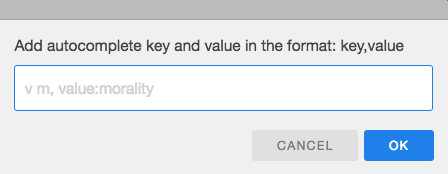
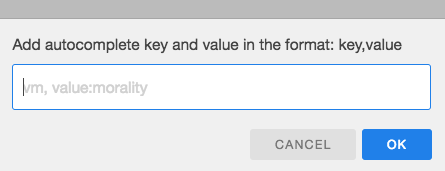
updated features for 2.0

diff --git a/features.html b/features.html
@@ -7,7 +7,7 @@
 	<meta charset="utf-8" />
 	<meta name="viewport" content="width=device-width, initial-scale=1" />
 	<link rel="stylesheet" href="assets/css/main.css" />
-	<link rel="shortcut icon"  href="images/icon.png" />
+	<link rel="shortcut icon" href="images/icon.png" />
 </head>
 
 <body class="subpage">
@@ -67,17 +67,36 @@
 				<div class="6u 12u$(small)">
 					<h3>Tab Navigation</h3>
 					<p>
-						<strong>Ctrl + O:</strong> previous tab
+						<strong>Ctrl + O:</strong> Previous tab
 						<br>
-						<strong>Ctrl + P:</strong> next tab
+						<strong>Ctrl + P:</strong> Next tab
 						<br>
 						<strong>Note:</strong> In order for to switch tabs through keyboard, the cell must be in edit mode.
 					</p>
 				</div>
+
+
+			</div>
+			<hr class="major" />
+
+			<h2 id="content">Plan Flow and Policy Flow Customization</h2>
+			<p>
+				<strong>Flexcel</strong> allows you to customize your plan flow and policy flow by allowing the user to add an Advantage or an Off.</p>
+			<div class="row">
 				<div class="6u$ 12u$(small)">
-					<h3>Tab Deletion [LD Plan Flow and Policy Flow]</h3>
+					<h3>Tab Addition</h3>
 					<p>
-						<strong>Ctrl + I: </strong> delete tab. Checkout the
+						<strong>Ctrl + U: </strong> Add tab. Checkout the
+						<a href="preview.html">preview</a> to see how it works.
+						<br>
+						<br>
+						<strong>Note:</strong> You can only add advantages and offs. If you press ctrl + u when you are on Advantage 4, an Advantage
+						5 tab will be added right next to it. The same applies to the Off’s. </p>
+				</div>
+				<div class="6u$ 12u$(small)">
+					<h3>Tab Deletion</h3>
+					<p>
+						<strong>Ctrl + I: </strong> Delete tab. Checkout the
 						<a href="preview.html">preview</a> to see how it works.
 						<br>
 						<br>
@@ -85,6 +104,21 @@
 						the rest of the Advantages. The same applies to the Off’s.</p>
 				</div>
 
+
+			</div>
+			<hr class="major" />
+
+			<h2 id="content">PF Flow Customization</h2>
+			<p>
+				<strong>Flexcel</strong> allows you to change speakers based on speaker and side.</p>
+			<div class="row">
+				<div class="6u$ 12u$(small)">
+					<h3>Switching Speakers</h3>
+					<p>
+						<strong>Ctrl + L: </strong> Switch Speakers. The default setting is Pro as first speaker.
+						When you use Ctrl + L, the formatting of the flow changes for Con as first speakers. Checkout the
+						<a href="preview.html">preview</a> to see how it works.
+				</div>
 			</div>
 
 			<hr class="major" />
@@ -92,102 +126,134 @@
 			<p>
 				<strong>Flexcel</strong> has a autocomplete feature which allows for efficient flowing. Checkout the
 				<a href="preview.html">preview</a> to see how it works.
-			<div class="row">
-				<div class="6u 12u$(small)">
-					<h3>Usage</h3>
-					<p>
-						<strong>Flexcel</strong> has default autocomplete 'keys' and 'values'. Once you type the 'key' and press enter, the 'value'
-						will be automatically completed for you.
-						<br> For example, if I type 'v m' into a cell and press enter, the cell would then display 'value: morality'
-					</p>
+				<div class="row">
+					<div class="6u 12u$(small)">
+						<h3>Usage</h3>
+						<p>
+							<strong>Flexcel</strong> has default autocomplete 'keys' and 'values'. Once you type the 'key' and press enter, the 'value'
+							will be automatically completed for you.
+							<br> For example, if I type 'vm' into a cell and press enter, the cell would then display 'value: morality'.
+							<br>
+							<br>
+							<strong>New Feature:</strong> if you type 'c1 China', 'Contention One: China' would be displayed.
+						</p>
+					</div>
+
+					<div class="6u$ 12u$(small)">
+						<h4>Default Autocomplete Keys and Values</h4>
+						<ul class="box" style="height: 200px;overflow: scroll;overflow-y: scroll;overflow-x: scroll;">
+							<li>c1: Contention 1</li>
+							<li>c2: Contention 2</li>
+							<li>c3: Contention 3</li>
+							<li>c4: Contention 4</li>
+							<li>c5: Contention 5</li>
+							<li>c6: Contention 6</li>
+							<li>c7: Contention 7</li>
+							<li>c8: Contention 8</li>
+							<li>c9: Contention 9</li>
+							<li>c10: Contention 10</li>
+							<li>o1: Off 1</li>
+							<li>o2: Off 2</li>
+							<li>o3: Off 3</li>
+							<li>o4: Off 4</li>
+							<li>o5: Off 5</li>
+							<li>o6: Off 6</li>
+							<li>o7: Off 7</li>
+							<li>o8: Off 8</li>
+							<li>o9: Off 9</li>
+							<li>o10: Off 10</li>
+							<li>obs: Observations</li>
+							<li>Adv1: Advantage 1</li>
+							<li>Adv2: Advantage 2</li>
+							<li>Adv3: Advantage 3</li>
+							<li>Adv4: Advantage 4</li>
+							<li>Adv5: Advantage 5</li>
+							<li>Adv6: Advantage 6</li>
+							<li>fw: Framework</li>
+							<li>def: Definitions</li>
+							<li>im: Impact</li>
+							<li>vm: value: morality</li>
+							<li>stsv: standard is mitigating structural violence</li>
+							<li>stmsw: standard is maximizing societal welfare</li>
+							<li>stmew: standard is maximizing expected wellbeing</li>
+							<li>stut: maximizing utility</li>
+							<li>stcomm: standard is consistency with communal obligations</li>
+							<li>strl: standard is respecting liberty</li>
+							<li>goo: Goodin 95</li>
+							<li>k83: Korsgaard 83</li>
+							<li>k93: Korsgaard 93</li>
+							<li>b02: Bostrom 02</li>
+							<li>b11: Bostrom 11</li>
+							<li>win: Winter and Leighton 99</li>
+							<li>int: Interp -</li>
+							<li>vio: Violation -</li>
+							<li>sta: Standards</li>
+							<li>vot: Voters</li>
+							<li>ecd: Econ Da</li>
+							<li>cpk: Cap K</li>
+							<li>ak: Afropess K</li>
+						</ul>
+					</div>
+					<div class="6u$ 12u$(small)">
+						<h3>Customization</h3>
+						<p>You can add your own custom 'key' and 'value'/autocomplete shortcuts.
+							<br>
+							<br>
+							<strong>Note: </strong> Your key will only work if it's a single word. In
+							<strong>Flexcel 2.0</strong>, 'v m' will not work. It is recommened that you change it to 'vm':'value morality'.
+							<br>
+							<strong>Ctrl + T:</strong> A dialog pops up in which you enter the key and value in the format: 'value,key'.</p>
+						<img src="images/autocomplete-customization.png" alt="">
+					</div>
+				</div>
+				<hr class="major" />
+
+				<h2 id="content">Flow Customization</h2>
+				<p>
+					<strong>Flexcel</strong> has options to chage font colors and column differentiation</p>
+				<div class="row">
+					<div class="6u 12u$(small)">
+						<h3>Font Color and Column Color</h3>
+						<p>
+							<strong>Ctrl + F: </strong> An dialog pops up and allows you to choose the font color for AFF and NEG color. You can also
+							choose to customize the column color for AFF and NEG to differntiate them.
+						</p>
+						<img src="images/font-customization.png" alt="">
+					</div>
+					<div class="6u$ 12u$(small)">
+						<h3>Bold Font</h3>
+						<p>
+							<strong>Ctrl + B: </strong> Bold the current cell. Checkout the
+							<a href="preview.html">preview</a> to see how it works.
+							<br>
+							<br>
+							<strong>Note:</strong> After you bold the cell, it is recommened to navigate to the next cell using arrow keys.</p>
+					</div>
+				</div>
+				<!-- Content -->
+				<h2 id="content">Saving</h2>
+				<p>
+					<strong>Flexcel</strong> allows you to save pre-flows and flows.</p>
+				<div class="row">
+					<div class="6u 12u$(small)">
+						<h3>Saving the Flow</h3>
+						<p>
+							<strong>Ctrl + S:</strong> An input dialog pops up in which you insert the name of the flow. Then, an open dialog pops up
+							in which you choose the folder you want to save the flow in.
+						</p>
+					</div>
+					<div class="6u$ 12u$(small)">
+						<h3>Loading the Flow</h3>
+						<p>
+							<strong>Ctrl + D:</strong> An open dialog pops up and allows you to choose the file (.json) that you want to load.
+							<br>
+							<br>
+							<strong>Note:</strong> If you load a flow of the wrong type, an error prompt will pop up.</p>
+					</div>
+
 				</div>
 
-				<div class="6u$ 12u$(small)">
-					<h4>Default Autocomplete Keys and Values</h4>
-					<ul class="box" style="height: 200px;overflow: scroll;overflow-y: scroll;overflow-x: scroll;">
-						<li>c1: Contention 1</li>
-						<li>c2: Contention 2</li>
-						<li>c3: Contention 3</li>
-						<li>c4: Contention 4</li>
-						<li>c5: Contention 5</li>
-						<li>c6: Contention 6</li>
-						<li>c7: Contention 7</li>
-						<li>c8: Contention 8</li>
-						<li>c9: Contention 9</li>
-						<li>c10: Contention 10</li>
-						<li>o1: Off 1</li>
-						<li>o2: Off 2</li>
-						<li>o3: Off 3</li>
-						<li>o4: Off 4</li>
-						<li>o5: Off 5</li>
-						<li>o6: Off 6</li>
-						<li>o7: Off 7</li>
-						<li>o8: Off 8</li>
-						<li>o9: Off 9</li>
-						<li>o10: Off 10</li>
-						<li>obs: Observations</li>
-						<li>Adv1: Advantage 1</li>
-						<li>Adv2: Advantage 2</li>
-						<li>Adv3: Advantage 3</li>
-						<li>Adv4: Advantage 4</li>
-						<li>Adv5: Advantage 5</li>
-						<li>Adv6: Advantage 6</li>
-						<li>fw: Framework</li>
-						<li>def: Definitions</li>
-						<li>im: Impact</li>
-						<li>v m: value: morality</li>
-						<li>st sv: standard is mitigating structural violence</li>
-						<li>st msw: standard is maximizing societal welfare</li>
-						<li>st mew: standard is maximizing expected wellbeing</li>
-						<li>st ut: maximizing utility</li>
-						<li>st comm: standard is consistency with communal obligations</li>
-						<li>st rl: standard is respecting liberty</li>
-						<li>goo: Goodin 95</li>
-						<li>k83: Korsgaard 83</li>
-						<li>k93: Korsgaard 93</li>
-						<li>b02: Bostrom 02</li>
-						<li>b11: Bostrom 11</li>
-						<li>win: Winter and Leighton 99</li>
-						<li>int: Interp -</li>
-						<li>vio: Violation -</li>
-						<li>sta: Standards</li>
-						<li>vot: Voters</li>
-						<li>ecd: Econ Da</li>
-						<li>cpk: Cap K</li>
-						<li>ak: Afropess K</li>
-					</ul>
-				</div>
-				<div class="6u$ 12u$(small)">
-					<h3>Customization</h3>
-					<p>You can add your own custom 'key' and 'value'/autocomplete shortcuts.
-						<br>
-						<strong>Ctrl + T:</strong> A dialog pops up in which you enter the key and value in the format: 'value,key'.</p>
-					<img src="images/autocomplete-customization.png" alt="">
-				</div>
-			</div>
-			<hr class="major" />
 
-			<!-- Content -->
-			<h2 id="content">Saving</h2>
-			<p>
-				<strong>Flexcel</strong> allows you to save pre-flows and flows.</p>
-			<div class="row">
-				<div class="6u 12u$(small)">
-					<h3>Saving the Flow</h3>
-					<p>
-						<strong>Ctrl + S:</strong> An input dialog pops up in which you insert the name of the flow. Then, an open dialog pops up in which you choose the folder you want to save the flow in.
-					</p>
-				</div>
-				<div class="6u$ 12u$(small)">
-					<h3>Loading the Flow</h3>
-					<p>
-						<strong>Ctrl + D:</strong> An open dialog pops up and allows you to choose the file (.json) that you want to load.
-						<br>
-						<br>
-						<strong>Note:</strong> If you load a flow of the wrong type, an error prompt will pop up.</p>
-				</div>
-
-			</div>
 	</section>
 
 	<!-- Footer -->
